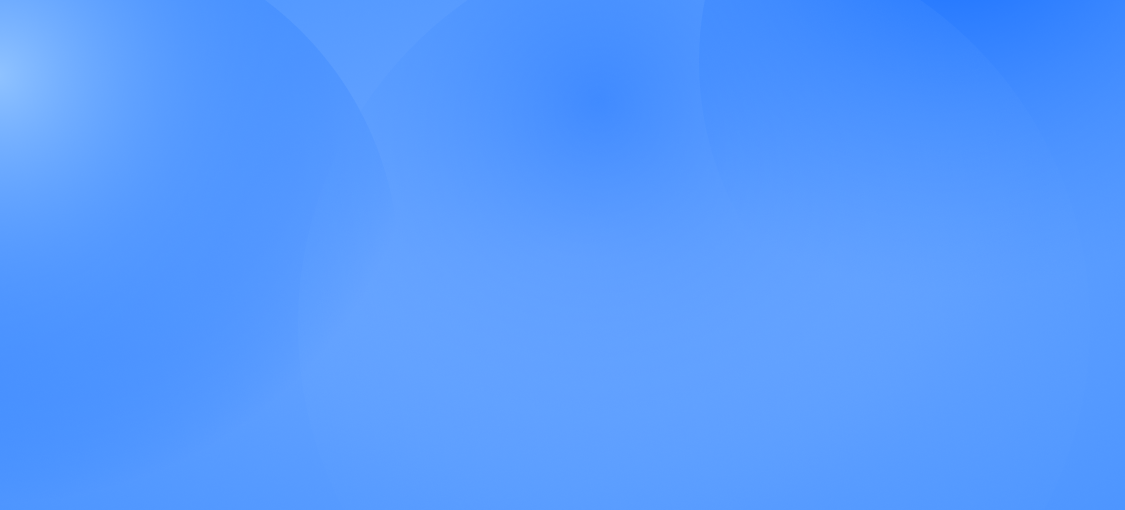
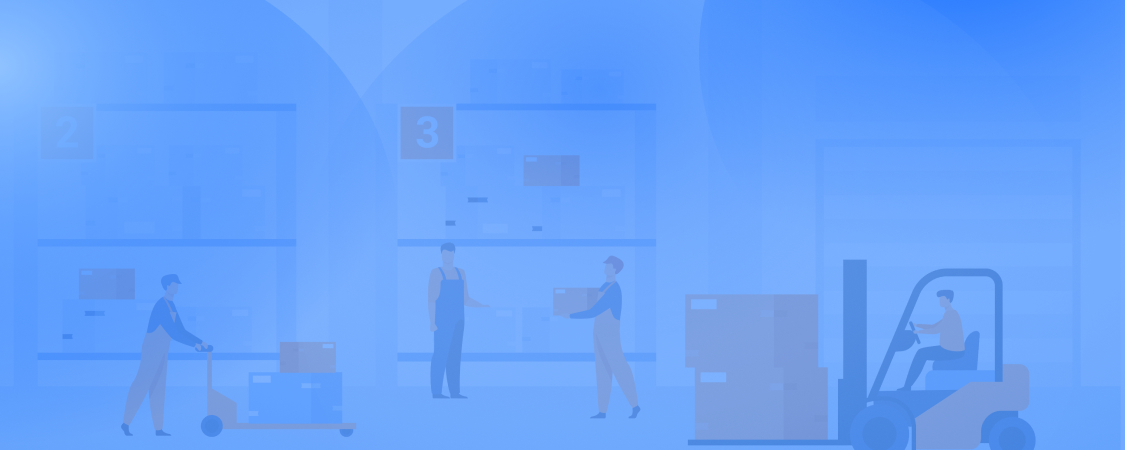
remove skyrocket point and change background

diff --git a/src/screens/ShopScreen/ShopScreen.tsx b/src/screens/ShopScreen/ShopScreen.tsx
@@ -55,18 +55,6 @@ const ShopScreen: React.FC<ShopScreenRouteProp> = ({ navigation, route }) => {
         />
         <View style={styles.shopInfo}>
           <Text style={styles.textShopName}>{route.params.shop.name}</Text>
-          <Image
-            style={styles.skyRocket}
-            source={require("../../../assets/skyrocket.png")}
-          />
-          <View style={styles.shopPoint}>
-            <Image
-              style={styles.coin}
-              source={require("../../../assets/coin.png")}
-            />
-
-            <Text style={styles.textPoint}>0 คะแนน</Text>
-          </View>
         </View>
       </View>
       <View style={styles.warpChangeShop}>
@@ -110,14 +98,18 @@ const styles = StyleSheet.create({
     height: 70,
   },
   warpShopHeader: {
-    height: 200,
+    height: 150,
   },
   grid: {
     flexDirection: "row",
     flexWrap: "wrap",
     justifyContent: "center",
   },
-  shopInfo: { padding: 20 },
+  shopInfo: {
+    flexDirection: "row",
+    padding: 60,
+    paddingLeft: 25,
+  },
   wrapProduct: {
     flex: 1,
     flexDirection: "row",
@@ -129,8 +121,7 @@ const styles = StyleSheet.create({
   },
   bgImage: {
     width: "100%",
-    height: "100%",
-    resizeMode: "cover",
+    height: 150,
     position: "absolute",
   },
   textShopName: {
